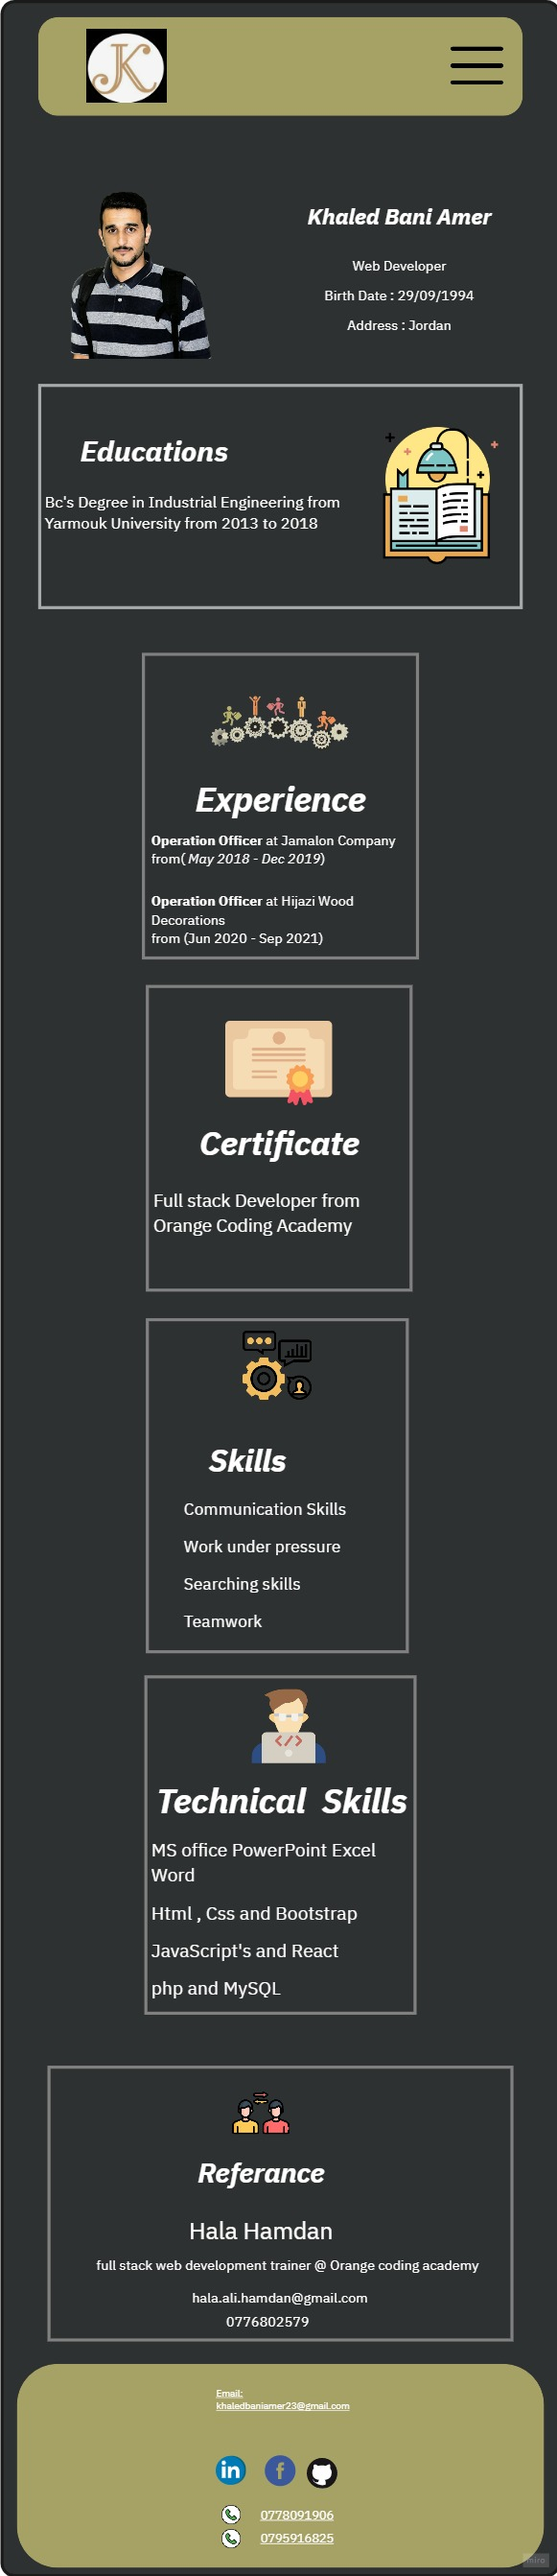
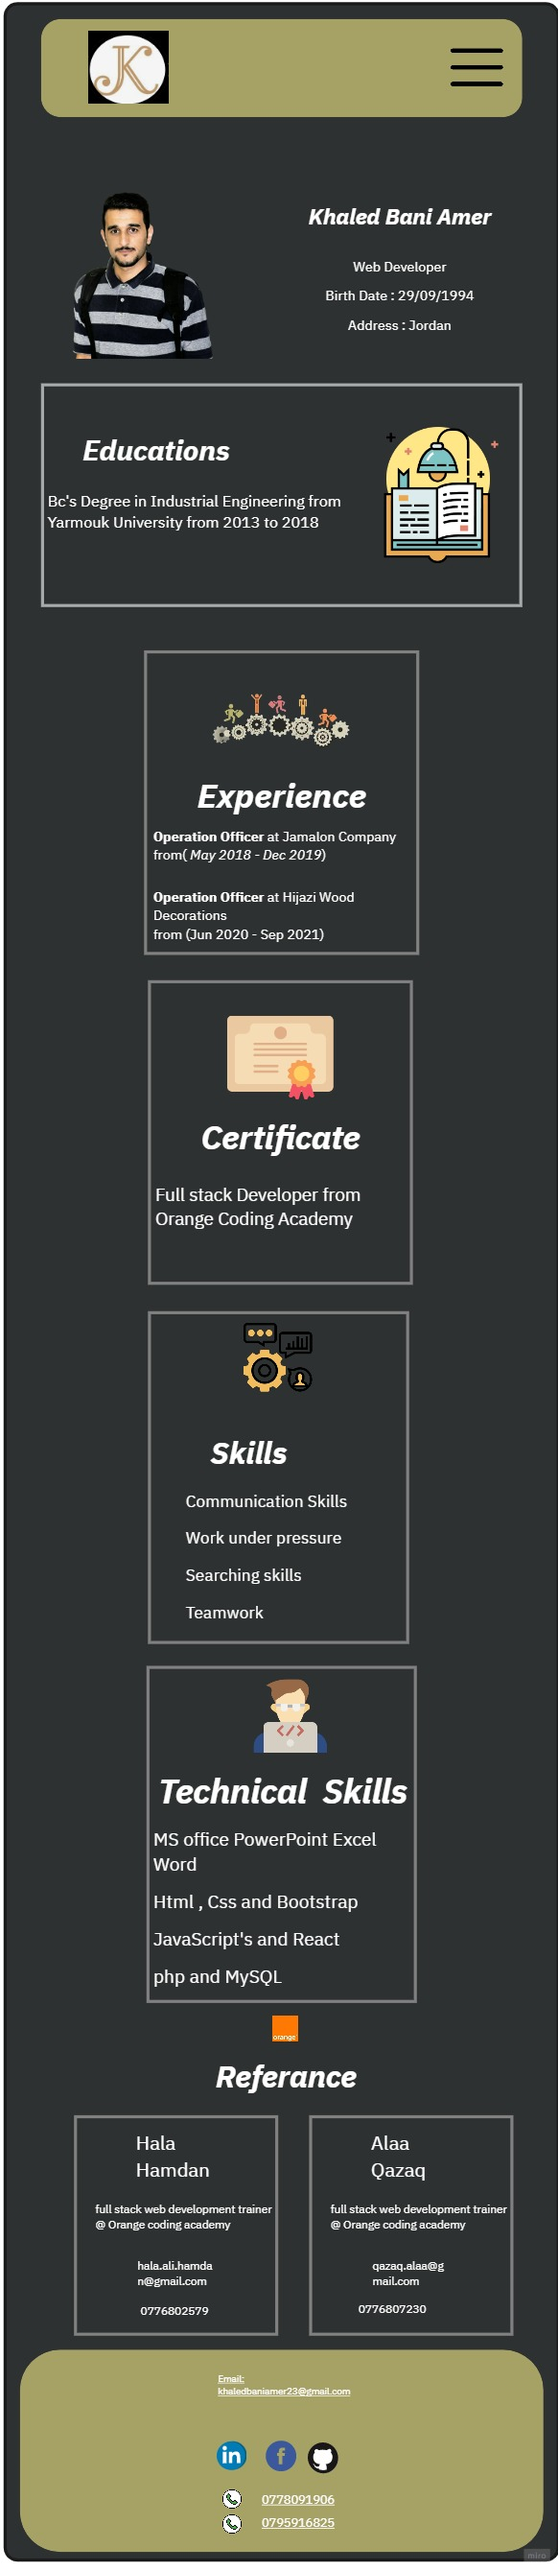
main

diff --git a/ProjectHtmlCss/Portfolio.html b/ProjectHtmlCss/Portfolio.html
@@ -10,14 +10,14 @@
 
   <!-- Bootstrap CSS -->
 
-  <link href="https://cdn.jsdelivr.net/npm/bootstrap@5.1.3/dist/css/bootstrap.min.css" rel="stylesheet"
+<link href="https://cdn.jsdelivr.net/npm/bootstrap@5.1.3/dist/css/bootstrap.min.css" rel="stylesheet"
     integrity="sha384-1BmE4kWBq78iYhFldvKuhfTAU6auU8tT94WrHftjDbrCEXSU1oBoqyl2QvZ6jIW3" crossorigin="anonymous">
 
 
 
-  <script src="https://cdn.jsdelivr.net/npm/bootstrap@5.1.3/dist/js/bootstrap.bundle.min.js" integrity="sha384-ka7Sk0Gln4gmtz2MlQnikT1wXgYsOg+OMhuP+IlRH9sENBO0LRn5q+8nbTov4+1p" crossorigin="anonymous"></script>
+<script src="https://cdn.jsdelivr.net/npm/bootstrap@5.1.3/dist/js/bootstrap.bundle.min.js" integrity="sha384-ka7Sk0Gln4gmtz2MlQnikT1wXgYsOg+OMhuP+IlRH9sENBO0LRn5q+8nbTov4+1p" crossorigin="anonymous"></script>
 
-  <script src="https://cdn.jsdelivr.net/npm/@popperjs/core@2.10.2/dist/umd/popper.min.js" integrity="sha384-7+zCNj/IqJ95wo16oMtfsKbZ9ccEh31eOz1HGyDuCQ6wgnyJNSYdrPa03rtR1zdB" crossorigin="anonymous"></script>
+<script src="https://cdn.jsdelivr.net/npm/@popperjs/core@2.10.2/dist/umd/popper.min.js" integrity="sha384-7+zCNj/IqJ95wo16oMtfsKbZ9ccEh31eOz1HGyDuCQ6wgnyJNSYdrPa03rtR1zdB" crossorigin="anonymous"></script>
 <script src="https://cdn.jsdelivr.net/npm/bootstrap@5.1.3/dist/js/bootstrap.min.js" integrity="sha384-QJHtvGhmr9XOIpI6YVutG+2QOK9T+ZnN4kzFN1RtK3zEFEIsxhlmWl5/YESvpZ13" crossorigin="anonymous"></script>
 
   <!-- Css Links -->
@@ -32,34 +32,34 @@
 
 
 
-  <nav class="navbar navbar-expand-lg navbar-light" style="background-color: #A6A165; width: 90%; margin: auto; border-radius: 5px;">
+  <nav class="navbar navbar-expand-lg navbar-light " style=" background-color: #A6A165; width: 90%; margin: auto; border-radius: 5px;">
     <div class="container">
       <img src="imag/logo.png" alt="" width="70px" height="70px">
       <button class="navbar-toggler" type="button" data-bs-toggle="collapse" data-bs-target="#myNavbar" aria-controls="navbarSupportedContent" >
         <span class="navbar-toggler-icon"></span>
       </button>
-      <div class="collapse navbar-collapse" id="myNavbar">
-        <ul class="navbar-nav mx-5" id="links">
-          <li class="nav-item  mx-5">
+      <div class="collapse navbar-collapse " id="myNavbar">
+        <ul class="navbar-nav  mx-3 " id="links">
+          <li class="nav-item  mx-3">
             <a class="nav-link " aria-current="page" href="#about">About</a>
           </li>
-          <li class="nav-item  mx-5">
+          <li class="nav-item  mx-3">
             <a class="nav-link" href="#education">Education</a>
           </li>
 
-          <li class="nav-item  mx-5">
+          <li class="nav-item  mx-3">
             <a class="nav-link" href="#experience">Experience</a>
           </li>
 
-          <li class="nav-item  mx-5">
+          <li class="nav-item  mx-3">
             <a class="nav-link" href="#skills">Skills</a>
           </li>
 
-          <li class="nav-item  mx-5">
+          <li class="nav-item  mx-3">
             <a class="nav-link" href="#referance">Referance</a>
           </li>
 
-          <li class="nav-item  mx-5">
+          <li class="nav-item  mx-3">
             <a class="nav-link" href="#mainFooter ">Contact</a>
           </li>
          
@@ -80,6 +80,7 @@
     <div class="text">
       <h2>Khaled Bani Amer</h2>
       <p>Full Stack Developer</p>
+      <p>Think twice code once</p>
       <p>Birth Date : 29/09/1994</p>
       <p>Address : Jordan</p>
 
@@ -88,8 +89,14 @@
   <br> <br> <br>
   <div id="education">
     <div class="text">
-      <h2>Education</h2><br> <br><br>
-      <p>Bc's Degree in Industrial Engineering from Yarmouk University from (2013 to 2018)</p>
+      <h2>Education</h2>
+      <p>Bc's Degree in Industrial Engineering from Yarmouk University from (2013 to 2018)</p> <br><br>
+      <h2>Poject Graduation</h2>
+      <p>
+        The relationship between 
+        machining factors and measurement dimensions using quality and 
+        statistical tools
+      </p>
     </div>
     <div id="educationIcon">
       <img  src="imag/studying.png" alt="">
@@ -113,7 +120,9 @@
     <div class="two">
       <img src="imag/graduation-diploma.png"  >
       <h2>Certificate</h2>
-      <p>Full Stack Developer from Orange Coding Academy</p>
+      <p style="font-style: 900;">Full Stack Developer from Orange Coding Academy</p>
+      <p>1-Fornt-end : Html , Css ,bootstrap and JavaScript</p>
+      <p>2-Back-end : MySQL , php and laravel</p>
     </div>
   </div>
 
@@ -121,7 +130,7 @@
 
     <div class="listOne">
       <img src="imag/tech.png" ><br>
-      <h2>Skills</h2>
+      <h2>Soft Skills</h2>
 
       <p>Communication Skills</p>
       <p>Work under pressure</p>
@@ -139,16 +148,29 @@
       <p>php and MySQL</p>
     </div>
   </div>
+<div id="referance">
 
-  <div id="referance">
-    <img src="imag/exchanging.png">
-    <h2>Referance</h2> <br> 
-    <p>Hala Hamdan </p>
-    <p>full stack web development trainer @ Orange coding academy </p>
-    <p>hala.ali.hamdan@gmail.com </p>
-    <p>0776802579</p>
+  <div class="title">
+    <img src="imag/orange (1).png">
+    <h2>Referances</h2>
   </div>
 
+  <div class="mainReferance">
+      <div class="referance1">
+        <h2>Hala Hamdan </h2>
+        <p>full stack web development trainer @ Orange coding academy </p>
+        <p>hala.ali.hamdan@gmail.com </p>
+        <p>0776802579</p>
+      </div>
+
+      <div class="referance2">
+        <h2>Alaa qazaq </h2>
+        <p>full stack web development trainer @ Orange coding academy </p>
+        <p>qazaq.alaa@gmail.com </p>
+        <p>0776807230</p>
+      </div>
+    </div>  
+</div>
 
 </div>
 <br>
@@ -194,7 +216,19 @@
     </div>
   </div>
 </footer>
-
+<!-- Optional JavaScript -->
+    <!-- jQuery first, then Popper.js, then Bootstrap JS -->
+    <script src="https://code.jquery.com/jquery-3.3.1.slim.min.js"
+        integrity="sha384-q8i/X+965DzO0rT7abK41JStQIAqVgRVzpbzo5smXKp4YfRvH+8abtTE1Pi6jizo" crossorigin="anonymous">
+    </script>
+    <script src="https://cdnjs.cloudflare.com/ajax/libs/popper.js/1.14.7/umd/popper.min.js"
+        integrity="sha384-UO2eT0CpHqdSJQ6hJty5KVphtPhzWj9WO1clHTMGa3JDZwrnQq4sF86dIHNDz0W1" crossorigin="anonymous">
+    </script>
+    <script src="https://stackpath.bootstrapcdn.com/bootstrap/4.3.1/js/bootstrap.min.js"
+        integrity="sha384-JjSmVgyd0p3pXB1rRibZUAYoIIy6OrQ6VrjIEaFf/nJGzIxFDsf4x0xIM+B07jRM" crossorigin="anonymous">
+    </script>
+    <script src="https://kit.fontawesome.com/3509c2808e.js" crossorigin="anonymous"></script>
+    <script src="https://kit.fontawesome.com/0cce602e27.js" crossorigin="anonymous"></script>
 
 </body>
 

diff --git a/ProjectHtmlCss/style.css b/ProjectHtmlCss/style.css
@@ -12,6 +12,9 @@ body{
     border-radius: 5px;
     
 }
+#myNavbar{
+    flex-grow: 0;
+}
 #links li a {
     transition: 1s;
     
@@ -188,8 +191,8 @@ h2,p{
     box-shadow: 1px 1px 1px 1px #A6A165;
     transition: 1s;
 }
-.listOne:hover , .listTwo:hover{
-    box-shadow: 10px 10px 2px 1px #A6A165;
+.listOne:hover , .listTwo:hover , .referance1:hover , .referance2:hover{
+    box-shadow: 5px 5px 2px 1px #A6A165;
 }
 .listOne img , .listTwo img , #referance img{
     width:150px ;
@@ -205,7 +208,7 @@ h2,p{
     flex-direction: column;
     width: 90%;
     height: 700px;
-    border: 1px solid #A6A165;
+    
     padding: 15px;
     margin: auto;
     margin-bottom: 50px;
@@ -213,14 +216,34 @@ h2,p{
     align-items: center;
     border-radius: 5px;
 }
-#referance * {
-    margin: 20px;
-    padding: 5px;
+.referance1 ,.referance2{
+    border-radius: 5px;
+    border: 1px solid #A6A165;
+    height: 400px;
+    margin: 15px;
+    display: flex;
+    flex-direction: column;
+    text-align: center;
+    transition: 1s;
+    align-items: center;
+    justify-content: center;
+    
+}
+.referance1 * ,.referance2 *{
+    margin-top: 10px;
+}
+
+.mainReferance{
+    display: flex;
+   
+}
+.title{
+    text-align: center;
 }
 
 
 #mainFooter{
-    height: 100px;
+    height: 150px;
     background-color: #A6A165;
     width: 90%;
     margin: auto;
@@ -229,10 +252,11 @@ h2,p{
     align-items: center;
     color: white;
     border-radius: 5px;
-    margin-bottom: 50px;
+    
     border: 3px solid white;
     border-radius: 5px;
     width: 98%;
+    position: relative;
     bottom: 0;
 }
 .websit{
@@ -268,6 +292,28 @@ h2,p{
     font-size: 20px;
 }
 
+@media screen and (min-width: 769px) and (max-width: 1024px){
+    #educationIcon img{
+        width: 250px;
+        height: 250px;
+    }
+
+
+    .listOne , .listTwo{
+        width: 50%;
+        display: flex;
+        flex-direction: column;
+        align-items: center;
+        justify-content: center;
+        height:600px;
+        padding: 10px;
+        margin: 15px;
+
+        
+    }
+
+}
+
 /* Style fot tablet screen  */
 
 @media screen and (min-width: 480px) and (max-width: 768px){
@@ -278,7 +324,16 @@ h2,p{
     }
 
 
-
+    .referance1 ,.referance2{
+        border-radius: 5px;
+        border: 1px solid #A6A165;
+        height: 300px;
+        margin: 7px;
+        display: flex;
+        flex-direction: column;
+        text-align: center;
+        
+    }
 
     #about , #education , #experience , #skills , #referance{
         width: 80%;
@@ -330,7 +385,7 @@ h2,p{
     height: 200px;
 }
 
-#card5 * {
+#referance * {
     margin: 10px;  
 }
 
@@ -381,7 +436,30 @@ h2,p{
         height: 200px;
     }
 
-
+    #referance{
+        display: flex;
+        flex-direction: column;
+        width: 100%;
+        height: 400px;
+        
+        padding: 15px;
+        margin: auto;
+        margin-bottom: 50px;
+        transition: 1s;
+        align-items: center;
+        border-radius: 5px;
+    }
+    .referance1 ,.referance2{
+        border-radius: 5px;
+        border: 1px solid #A6A165;
+        height: 200px;
+        margin: 15px;
+        display: flex;
+        flex-direction: column;
+        text-align: center;
+        transition: 1s;
+        
+    }
 
 
     #about  , #education , #referance{
